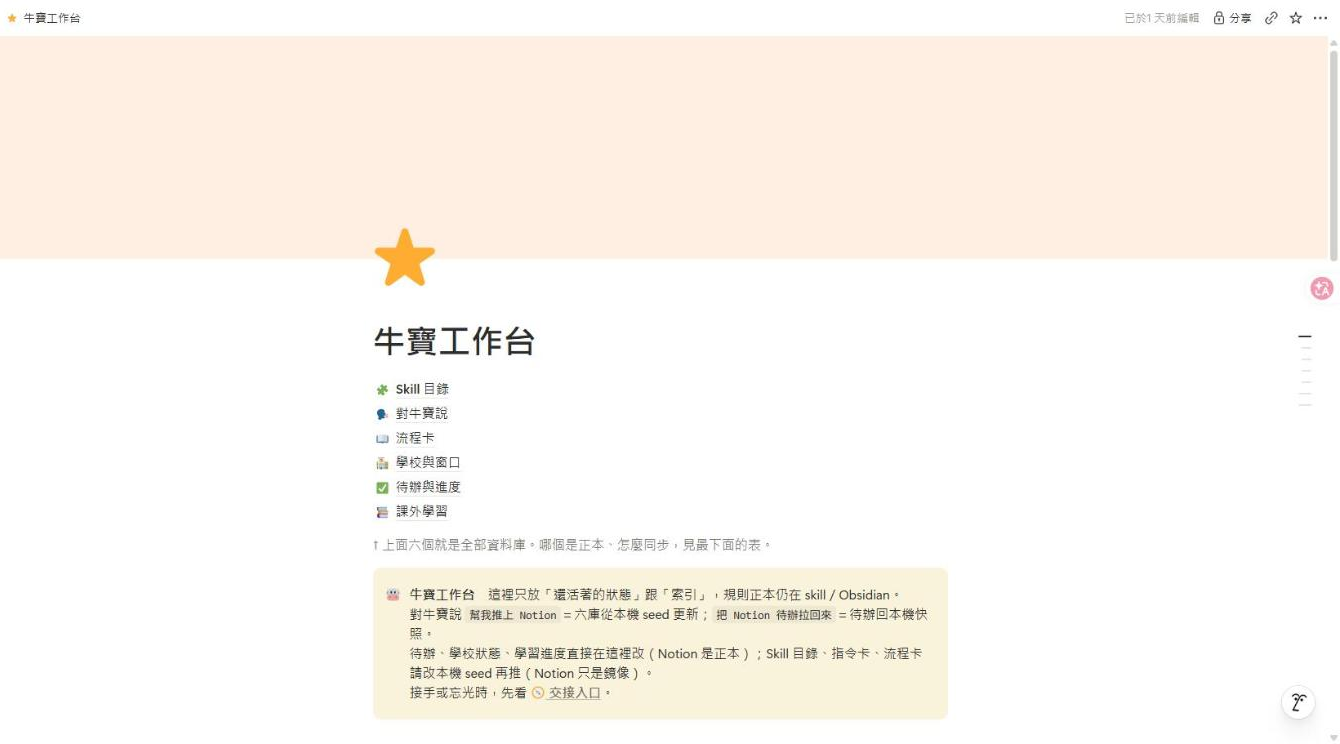
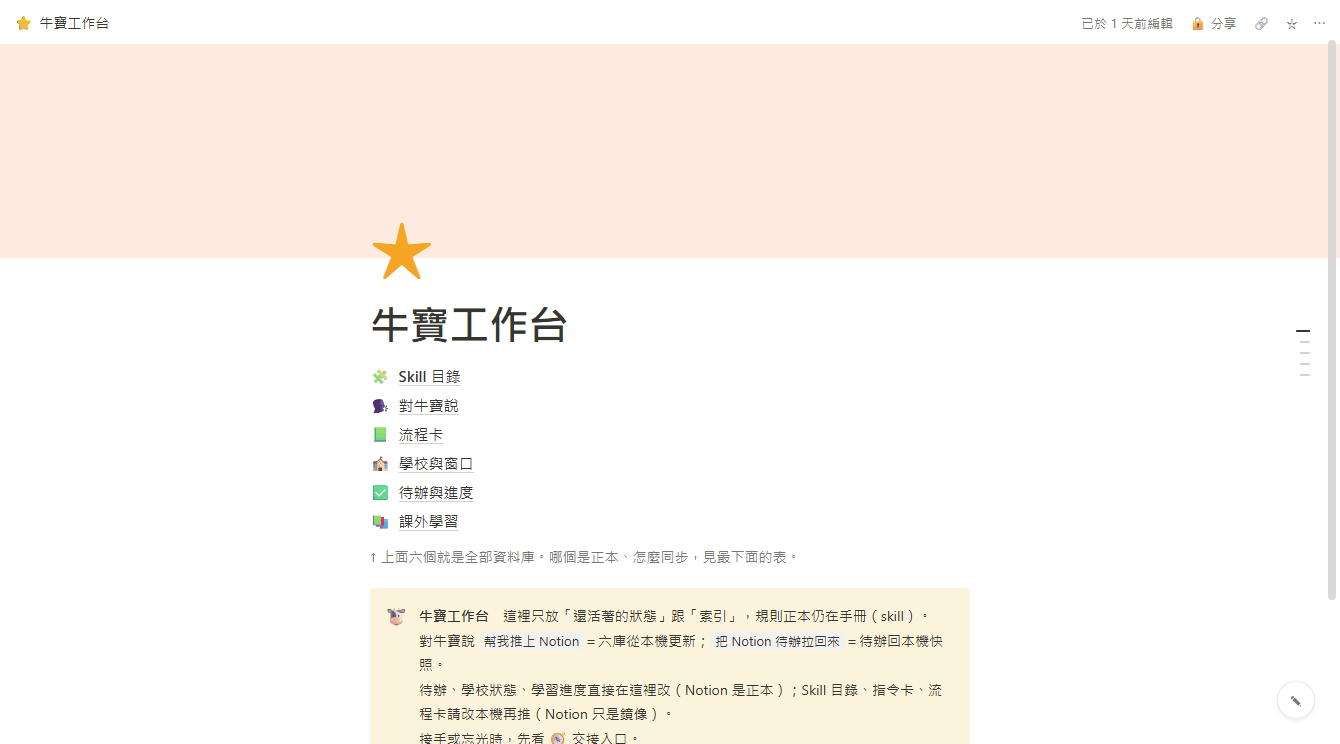
資安稽核修正：交接圖改示意版（Notion 三張重製、流程圖同事暱稱改角色名）、Catlendar 示範改虛構校名
- assets/handover-flowcards.png、handover-skills.png、handover-notion.png：由工作台實拍改為示意版，欄位相同、內容為示範資料，不含本機路徑與真實地雷
- assets/grades-flow.png：流程圖中的同事暱稱改為「同事 A」
- index.html：Catlendar 動手玩的追蹤項目與任務改用站內既有的虛構校名（南風／晴光／山城）；圖說標明示意版

Changed region(s): [[0.2754, 0.3091, 0.7343, 1.0], [0.0, 0.0, 1.0, 0.8038], [0.9485, 0.9274, 0.9791, 0.9583]]

diff --git a/index.html b/index.html
@@ -995,7 +995,7 @@ const PROJECTS = [
   desc:"行政最大的隱形成本是交接：規則存在承辦人腦中，文件永遠落後現況。我把整年度業務寫成「原始碼」：給會用 AI 的人，是 16 章 Claude Skill，新的 AI 會話能直接回答「現在幾月、該做什麼」；給習慣紙本的人，是腳本自動生成的 Word 手冊；給要排時程的人，是填三個錨點日期、整年時程自動展開的 Excel 主檔。內容更新重跑一次，三種輸出同步。",
   hi:["軟體業的 single source of truth，完全適用於行政","文件不用手排、用生成：交接從「祈禱文件是新的」變成「跑一次腳本」","交接包一鍵打包，附給不熟 AI 的同事的兩分鐘安裝說明","第四種介面是 Notion：六個資料庫鏡像（Skill 目錄、流程卡、待辦與進度…），給習慣 Notion 的接手者看，正本仍在本機"],
   tech:["Markdown/JSON 原始碼","Python 產檔腳本","Claude Skill","知識架構設計"],
-  shots:[{s:"assets/handover-notion.png",c:"Notion「牛寶工作台」入口：六個資料庫鏡像的總覽，頁面裡就寫明「規則正本仍在 skill／Obsidian，Notion 只是鏡像」——單一資料來源的原則貫徹到每個出口"},{s:"assets/handover-skills.png",c:"Skill 目錄實拍：40+ 本手冊依「工具與技術／本人與業務」分組，每本標註什麼時候用、管哪條業務線、母版放哪——接手的人用這張表就能找到所有規則"},{s:"assets/handover-flowcards.png",c:"流程卡實拍：一卡一流程的索引——何時做、做完會有什麼、先要有什麼、地雷在哪、對應時程月份；全文在手冊，這裡是給人快速翻的卡片層"},{s:"assets/handover-sop-grade.jpg",c:"對學生端的圖解 SOP：「成績單下載教學」四步驟說明圖——交接不只對同事，對使用者的說明也要圖解到照著走就會（AI 協作製圖）"},{s:"assets/handover-sop-system.jpg",c:"對接手者的系統操作圖解：「已繳款學生統計教學」——後台在哪裡點、每週做一次、統計口徑的提醒都畫進圖裡（畫面為空資料示範）"}]},
+  shots:[{s:"assets/handover-notion.png",c:"Notion「牛寶工作台」入口（示意版）：六個資料庫鏡像的總覽，頁面裡就寫明「規則正本仍在手冊，Notion 只是鏡像」——單一資料來源的原則貫徹到每個出口"},{s:"assets/handover-skills.png",c:"Skill 目錄（示意版，欄位同真實版、內容為示範）：40+ 本手冊依「工具與技術／本人與業務」分組，每本標註什麼時候用、管哪條業務線、管什麼——接手的人用這張表就能找到所有規則"},{s:"assets/handover-flowcards.png",c:"流程卡（示意版，內容為示範）：一卡一流程的索引——何時做、做完會有什麼、先要有什麼、地雷在哪、對應時程月份；全文在手冊，這裡是給人快速翻的卡片層"},{s:"assets/handover-sop-grade.jpg",c:"對學生端的圖解 SOP：「成績單下載教學」四步驟說明圖——交接不只對同事，對使用者的說明也要圖解到照著走就會（AI 協作製圖）"},{s:"assets/handover-sop-system.jpg",c:"對接手者的系統操作圖解：「已繳款學生統計教學」——後台在哪裡點、每週做一次、統計口徑的提醒都畫進圖裡（畫面為空資料示範）"}]},
 
  {id:"nubao", cat:["ai"], svg:"nubao",
   title:"🐮 AI 助理「牛寶」：我怎麼把 AI 當同事管", status:"live", statusTxt:"✅ 每天在用・持續進化中（這個網站也是牛寶蓋的）",
@@ -1011,7 +1011,7 @@ const PROJECTS = [
    "交付品質制度化：完成前須自行生成該領域專家（主管、HR、美編、UX……）檢閱修正，我看到的第一版就是檢查過的版本",
    "可攜性：手冊＋記憶一鍵打包成交接包，換電腦、換 AI 模型都能無痛搬家；Notion 上另有六庫鏡像給人看"],
   tech:["Claude Code","Skill / Memory 架構","雲端排程","AI 治理"],
-  shots:[{s:"assets/handover-skills.png",c:"牛寶的「工作手冊書櫃」：40+ 本 skill 的 Notion 目錄鏡像——業務規則、信件口吻、視覺品味、檔案規範全部成冊，這就是任何新 AI 會話能立刻接手的原因"}]},
+  shots:[{s:"assets/handover-skills.png",c:"牛寶的「工作手冊書櫃」：40+ 本 skill 的 Notion 目錄鏡像（示意版）——業務規則、信件口吻、視覺品味、檔案規範全部成冊，這就是任何新 AI 會話能立刻接手的原因"}]},
 
  {id:"marketing", cat:["mkt"], svg:"mkt",
   title:"🎀 行銷 × 內容作品系列", status:"live", statusTxt:"✅ 已上線：四大系列 13 件作品，持續擴充中",
@@ -1169,10 +1169,10 @@ PLAY.mail = {
 
 /* 02 Catlendar：一起養大它，每解決一個煩惱就長出一個真的小畫面 */
 const CAT_W = {
-  task: `<div class="w w-task"><h6>任務</h6><ul><li class="d">寄成績通知給 21 校</li><li>回輔英名單問題</li><li>訂 10/30 會議室</li></ul></div>`,
+  task: `<div class="w w-task"><h6>任務</h6><ul><li class="d">寄成績通知給 21 校</li><li>回南風名單問題</li><li>訂 10/30 會議室</li></ul></div>`,
   note: `<div class="w w-note"><h6>便利貼</h6><div class="st"><i class="y">開會：10/30 前交企劃</i><i class="p">問窗口：名單格式</i></div></div>`,
   cal: `<div class="w w-cal"><h6>月曆</h6><div class="g">${["一","二","三","四","五","六","日"].map(d => `<s>${d}</s>`).join("")}${Array.from({length: 28}, (_, i) => `<b class="${i === 9 ? "dl" : i === 16 ? "dl2" : ""}">${i + 1}</b>`).join("")}</div><small>10 日退費截止・17 日成績送交</small></div>`,
-  track: `<div class="w w-track"><h6>追蹤項目</h6><ul><li><em>輔英</em>等窗口回名單<span class="wait">等 3 天</span></li><li><em>彰師</em>收執聯已寄<span class="me">輪到我</span></li><li><em>慈濟</em>名單核對完<span class="ok">結案</span></li></ul></div>`,
+  track: `<div class="w w-track"><h6>追蹤項目</h6><ul><li><em>南風</em>等窗口回名單<span class="wait">等 3 天</span></li><li><em>晴光</em>收執聯已寄<span class="me">輪到我</span></li><li><em>山城</em>名單核對完<span class="ok">結案</span></li></ul></div>`,
   money: `<div class="w w-money"><h6>記帳</h6><b>$4,320</b><small>本月・便當 120・影印 80・郵資 35</small></div>`,
   habit: `<div class="w w-habit"><h6>習慣打卡・番茄鐘</h6><div class="dots7">${[1,1,1,0,1,1,0].map(x => `<i class="${x ? "on" : ""}"></i>`).join("")}</div><div class="pomo"><i></i>25:00</div></div>`,
   board: `<div class="w w-board"><h6>追案看板</h6><div class="cols"><div><s>待確認 2</s><i></i><i></i></div><div><s>等對方 3</s><i></i><i></i><i></i></div><div><s>完成 5</s><i></i><i></i><i></i></div></div></div>`,
